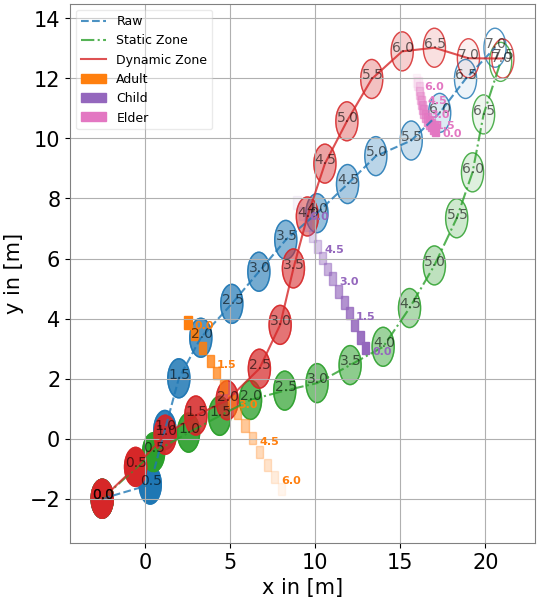
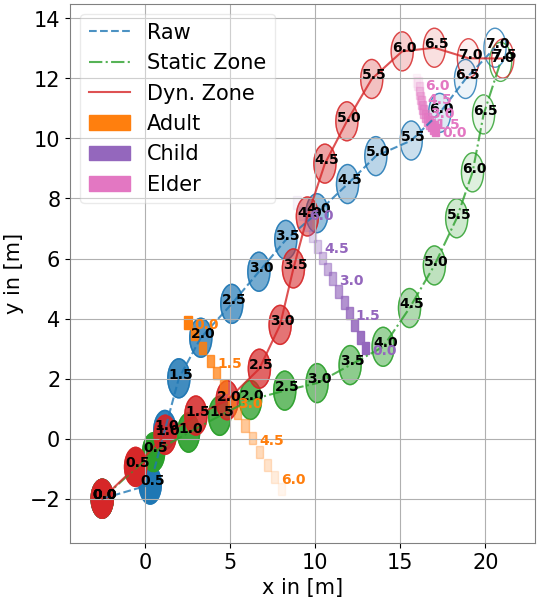
refined srl plotting scripts

diff --git a/arena_navigation/arena_local_planner/evaluation/scripts/semantic_plots/plotforcomparison.py b/arena_navigation/arena_local_planner/evaluation/scripts/semantic_plots/plotforcomparison.py
@@ -150,7 +150,8 @@ fig,ax = plt.subplots()
 
 for i in range(len(x_labels)):
     ax.bar(x+i*width,y_dist[i],width,alpha=0.7,color=class_color[i])
-
+    """[summary]
+    """
 plt.annotate('$SR_{raw} = %.2f$'%(success_rate[0]) + ' $CR_{raw} = %.2f$'%(collision_rate[0])+'\n$SR_{sz} = %.2f$'%(success_rate[1]) + ' $CR_{sz} = %.2f$'%(collision_rate[1])+'\n$SR_{dz} = %.2f$'%(success_rate[2]) + ' $CR_{dz} = %.2f$'%(collision_rate[2]), xy=(0.6, 0.05), xycoords='axes fraction',bbox=dict(boxstyle="round", fc="w",edgecolor='black'))
 # plt.annotate('$sr1 = %.2f$'%(success_rate1) + ' \n$cr1 = %.2f$'%(collision_rate1), xy=(0.3, 0.85), xycoords='axes fraction',bbox=dict(boxstyle="round", fc="w"))
 plt.legend(x_labels,framealpha=0.4)
@@ -183,8 +184,8 @@ for j in range(len_file):
         plt.figure(i+j+1)
         plt.hist(bins[:-1],bins=bins,weights=counts/total_number*100, align = 'right',edgecolor='black', linewidth=0.2, color=blue)
         plt.axvline(dic_safe[i], color='r', linestyle='dashed', linewidth=1.5)
-        plt.annotate('Safety distance = %.2f'%(dic_safe[i]) + '\n %.1f %% of all distances are smaller'%(num_smaller_than_safety_distance/total_number*100), xy=(0.35, 0.86), xycoords='axes fraction',color = 'red', bbox=dict(boxstyle="round", fc="w",edgecolor='red'))
-        plt.annotate('$\mu = %.2f$'%(mu) + ' \n$\sigma^2 = %.2f$'%(std), xy=(0.85, 0.85), xycoords='axes fraction', bbox=dict(boxstyle="round", fc="w",edgecolor='black'))
+        plt.annotate('Safety distance = %.2f'%(dic_safe[i]) + '\n %.1f %% of all distances are smaller'%(num_smaller_than_safety_distance/total_number*100), xy=(0.35, 0.86), xycoords='axes fraction',fontsize=14, color = 'red', bbox=dict(boxstyle="round", fc="w",edgecolor='red'))
+        plt.annotate('$\mu = %.2f$'%(mu) + ' \n$\sigma^2 = %.2f$'%(std), xy=(0.85, 0.85), xycoords='axes fraction',fontsize=14, bbox=dict(boxstyle="round", fc="w",edgecolor='black'))
         plt.title('Distances Of Closest '+ dic_h[i] +' To Robot - '+mode[j]+' Mode', fontsize=16, fontweight='bold')
         plt.xlabel('Distance [m]', fontsize=16)
         plt.ylabel('Relative Counts [%]', fontsize=16)

diff --git a/arena_navigation/arena_local_planner/evaluation/scripts/quantitative/eval_human_traj_robot/Evaluation_traj/evaluationTrajectory.py b/arena_navigation/arena_local_planner/evaluation/scripts/quantitative/eval_human_traj_robot/Evaluation_traj/evaluationTrajectory.py
@@ -291,7 +291,7 @@ class newBag():
                     for i,t_e in enumerate(t):
                         circle_outer = plt.Circle((x[i], y[i]), 0.65, color=self.color_traj, fill = True, alpha = t_rate[i])
                         circle = plt.Circle((x[i], y[i]), 0.65, color=self.color_traj, fill = False,alpha = 0.8)
-                        plt.text(x[i]-0.6,y[i],f'{round(t_e,1)}',fontsize=10, alpha = 0.6,fontweight= 10-t_rate[i], color="k")
+                        plt.text(x[i]-0.6,y[i],f'{round(t_e,1)}',fontsize=10, alpha = 1,fontweight= 1000, color="k")
                         ax.add_patch(circle_outer)
                         ax.add_patch(circle)
                     # if ~legend_traj:
@@ -506,7 +506,7 @@ def eval_run(filetype):
             t_rate=t_e/t_h[-1]
             circle = plt.Rectangle((x_h[k], y_h[k]),0.42, 0.42, color=color1, alpha = 1.0-t_rate) #,edgecolor=color1,ec=color1,
             if k%3==0:
-                plt.text(x_h[k]+0.6,y_h[k],f'{t_e}',fontsize=8, fontweight=1000, color=color1, alpha=1)
+                plt.text(x_h[k]+0.6,y_h[k],f'{t_e}',fontsize=10, fontweight=1000, color=color1, alpha=1)
             plt.gca().add_patch(circle)
             if ty==0:
                 if circle2==None:
@@ -529,7 +529,7 @@ def eval_run(filetype):
         t_rate_h=[]
         y_h=[]
 
-    plt.legend(line_traj_legend  + [circle2,circle3,circle4],['Raw','Static Zone','Dyn. Zone','Adult','Child','Elder'],framealpha=0.4,fontsize=9,loc='upper left')
+    plt.legend(line_traj_legend  + [circle2,circle3,circle4],['Raw','Static Zone','Dyn. Zone','Adult','Child','Elder'],framealpha=0.4,fontsize=15,loc='upper left')
 
     ax.spines["right"].set_visible(True)
     color_name = "grey"
